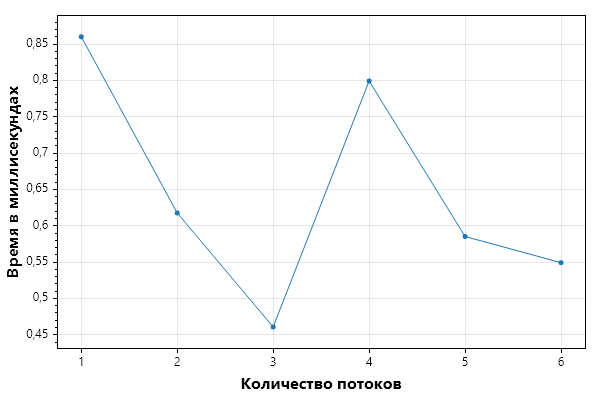
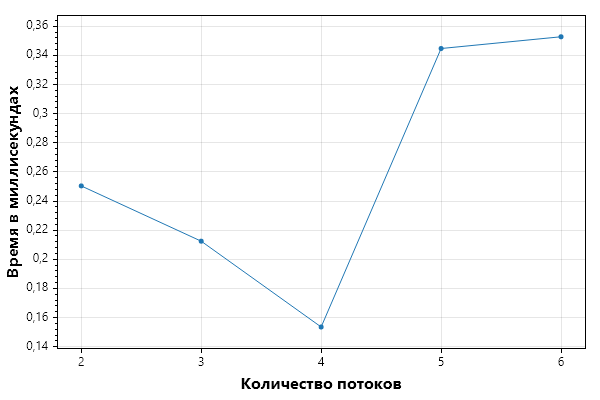
fix: changing the starting and ending values

diff --git a/task15/Program.cs b/task15/Program.cs
@@ -6,8 +6,8 @@ class Program
 {
     static void Main()
     {
-        double start = -1000;
-        double end = 1000;
+        double start = -100;
+        double end = 100;
         var SIN = (double x) => Math.Sin(x);
 
         double[] steps = { 1e-1, 1e-2, 1e-3, 1e-4, 1e-5, 1e-6 };
@@ -24,18 +24,18 @@ class Program
             }
         });
 
-        int[] threadsnumbers = { 1, 2, 3, 4, 5, 6};
+        int[] threadsnumbers = { 2, 3, 4, 5, 6};
         Dictionary<int, double> FlowDependentSpeed = new Dictionary<int, double>();
         threadsnumbers.ToList().ForEach(threadnumber =>
         {
             Stopwatch stopwatch = new Stopwatch();
             stopwatch.Start();
-            for (int i = 0; i < 100; i++) 
+            for (int i = 0; i < 50; i++) 
             {
                 DefiniteIntegral.Solve(start, end, SIN, minstep, threadnumber);
             }
             stopwatch.Stop();
-            FlowDependentSpeed[threadnumber] = (double)stopwatch.ElapsedTicks / Stopwatch.Frequency * 1000 / 100;
+            FlowDependentSpeed[threadnumber] = (double)stopwatch.ElapsedTicks / Stopwatch.Frequency * 1000 / 50;
         });
 
         var plt = new Plot();
@@ -50,14 +50,14 @@ class Program
 
 
         double timeIntegral = 0;
-        Stopwatch stopwatch = new Stopwatch();
-        stopwatch.Start();
-        for (int i = 0; i < 100; i++) 
+        Stopwatch stopwatch1 = new Stopwatch();
+        stopwatch1.Start();
+        for (int i = 0; i < 50; i++) 
         {
             DefiniteIntegral.Integral(start, end, SIN, minstep);
         }
-        stopwatch.Stop();
-        timeIntegral = (double)stopwatch.ElapsedTicks / Stopwatch.Frequency * 1000 / 100;
+        stopwatch1.Stop();
+        timeIntegral = (double)stopwatch1.ElapsedTicks / Stopwatch.Frequency * 1000 / 50;
 
         var percent = FlowDependentSpeed.Values.Min() / timeIntegral * 100;
         if (percent > 15) 
